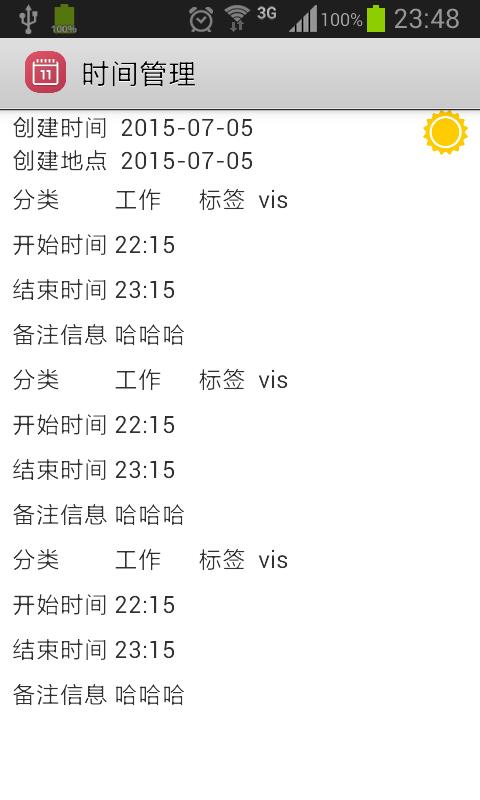
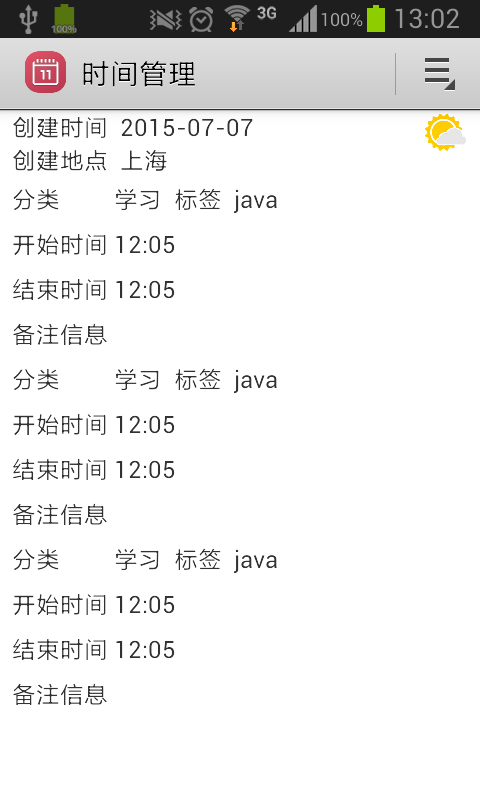
change editdiary

diff --git a/Main/src/com/jing/du/Main/Activity/DiaryDetailActivity.java b/Main/src/com/jing/du/Main/Activity/DiaryDetailActivity.java
@@ -7,10 +7,7 @@ import android.content.Intent;
 import android.os.Bundle;
 import android.os.Handler;
 import android.os.Message;
-import android.view.LayoutInflater;
-import android.view.Menu;
-import android.view.MenuItem;
-import android.view.View;
+import android.view.*;
 import android.widget.ImageView;
 import android.widget.ListView;
 import android.widget.TextView;
@@ -37,9 +34,9 @@ public class DiaryDetailActivity extends BaseActivity {
     ListView lvDiaryItem;
     private int diaryId;
     private Diary diary;
-    private int   listPosition;
+    private int listPosition;
     private List<DiaryItem> diaryItemList = new ArrayList<DiaryItem>();
-
+    private AddDiaryItemAdapter addDiaryItemAdapter;
     private Handler mHandler = new Handler() {
         @Override
         public void handleMessage(Message msg) {
@@ -51,6 +48,7 @@ public class DiaryDetailActivity extends BaseActivity {
 
         }
     };
+    private boolean diaryChanged = false;
 
     @Override
     protected void onCreate(Bundle savedInstanceState) {
@@ -60,7 +58,7 @@ public class DiaryDetailActivity extends BaseActivity {
         Intent intent = getIntent();
         Bundle bundle = intent.getExtras();
         diaryId = bundle.getInt("diary_id", 0);
-        listPosition = bundle.getInt("list_position",0);
+        listPosition = bundle.getInt("list_position", 0);
         afterView();
     }
 
@@ -75,12 +73,19 @@ public class DiaryDetailActivity extends BaseActivity {
         LayoutInflater inflater = getLayoutInflater();
         View headView = inflater.inflate(R.layout.layout_diary_detail_header, null);
         ((TextView) headView.findViewById(R.id.tv_create_time)).setText(DateUtils.getStringOfDate(diary.getCreateTime()));
-        ((TextView) headView.findViewById(R.id.tv_create_address)).setText(DateUtils.getStringOfDate(diary.getCreateTime()));
+        ((TextView) headView.findViewById(R.id.tv_create_address)).setText(diary.getAddress());
         ((ImageView) headView.findViewById(R.id.iv_create_weather)).setImageResource(CommonConstant.WEATHER_RESOUCE[diary.getWeatherType()]);
         lvDiaryItem.addHeaderView(headView);
         AddDiaryItemViewHolder addDiaryItemViewHolder = new AddDiaryItemViewHolder();
-        AddDiaryItemAdapter addDiaryItemAdapter = new AddDiaryItemAdapter(this, diaryItemList, addDiaryItemViewHolder, R.layout.detail_diary_item);
+        addDiaryItemAdapter = new AddDiaryItemAdapter(this, diaryItemList, addDiaryItemViewHolder, R.layout.detail_diary_item);
         lvDiaryItem.setAdapter(addDiaryItemAdapter);
+    }
+
+    private void refeshView() {
+        ((TextView) findViewById(R.id.tv_create_time)).setText(DateUtils.getStringOfDate(diary.getCreateTime()));
+        ((TextView) findViewById(R.id.tv_create_address)).setText(diary.getAddress());
+        ((ImageView) findViewById(R.id.iv_create_weather)).setImageResource(CommonConstant.WEATHER_RESOUCE[diary.getWeatherType()]);
+        addDiaryItemAdapter.notifyDataSetChanged();
     }
 
     @Override
@@ -114,10 +119,10 @@ public class DiaryDetailActivity extends BaseActivity {
             case R.id.action_edit:
                 Intent intent = new Intent();
                 Bundle bundle = new Bundle();
-                bundle.putInt("diary_id", diaryId);
+                bundle.putSerializable("diary", diary);
                 intent.putExtras(bundle);
                 intent.setClass(this, EditDiaryActivity.class);
-                startActivity(intent);
+                startActivityForResult(intent, CommonConstant.GOTO_EDIT_DIARY);
                 overridePendingTransition(R.anim.slide_in_right, R.anim.slide_out_left);
                 break;
             case R.id.action_delete:
@@ -131,15 +136,15 @@ public class DiaryDetailActivity extends BaseActivity {
 
     protected void dialog() {
         AlertDialog.Builder builder = new AlertDialog.Builder(this);
-        builder.setMessage("确认删除日志吗？");
+        builder.setMessage("确认删除日记吗？");
         builder.setTitle("提示");
         builder.setPositiveButton("确认", new DialogInterface.OnClickListener() {
             @Override
             public void onClick(DialogInterface dialog, int which) {
                 dialog.dismiss();
                 DataSupport.delete(Diary.class, diaryId);
-                Intent intent = DiaryDetailActivity.this.getIntent().putExtra("listPosition", listPosition);
-                DiaryDetailActivity.this.setResult(CommonConstant.GOTO_HOME_FLAGMENT,intent);
+                Intent intent = DiaryDetailActivity.this.getIntent();
+                DiaryDetailActivity.this.setResult(CommonConstant.GOTO_HOME_FLAGMENT, intent);
                 DiaryDetailActivity.this.finish();
             }
         });
@@ -150,5 +155,35 @@ public class DiaryDetailActivity extends BaseActivity {
             }
         });
         builder.create().show();
+    }
+
+    @Override
+    public void onActivityResult(int requestCode, int resultCode, Intent data) {
+        super.onActivityResult(requestCode, resultCode, data);
+        switch (requestCode) {
+            case CommonConstant.GOTO_EDIT_DIARY:
+                if (resultCode == CommonConstant.GOTO_DIARY_DETAIL) {
+                    Diary tempDairy = (Diary) data.getSerializableExtra("diary");
+                    diary = tempDairy;
+                    refeshView();
+                    diaryChanged = true;
+                }
+                break;
+            default:
+                break;
+        }
+    }
+
+    @Override
+    public boolean onKeyDown(int keyCode, KeyEvent event) {
+        if (diaryChanged) {
+            Intent intent = DiaryDetailActivity.this.getIntent().putExtra("diary", diary);
+            DiaryDetailActivity.this.setResult(CommonConstant.GOTO_HOME_FLAGMENT_FROM_EDIT_DIARY, intent);
+            DiaryDetailActivity.this.finish();
+        } else {
+            finish();
+            overridePendingTransition(android.R.anim.slide_in_left, android.R.anim.slide_out_right);
+        }
+        return super.onKeyDown(keyCode, event);
     }
 }

diff --git a/Main/src/com/jing/du/Main/Activity/EditDiaryActivity.java b/Main/src/com/jing/du/Main/Activity/EditDiaryActivity.java
@@ -1,20 +1,68 @@
 package com.jing.du.Main.Activity;
 
+import android.app.ActionBar;
+import android.content.ContentValues;
+import android.content.Intent;
 import android.os.Bundle;
-import android.view.KeyEvent;
+import android.view.Menu;
+import android.view.MenuItem;
+import android.view.View;
+import android.widget.*;
+import butterknife.ButterKnife;
+import butterknife.InjectView;
+import com.jing.du.Main.Model.Diary;
 import com.jing.du.Main.R;
+import com.jing.du.common.constant.CommonConstant;
+import com.jing.du.common.utils.DateUtils;
+import org.litepal.crud.DataSupport;
 
 /**
  * Created by charle-chen on 15/7/6.
  */
 public class EditDiaryActivity extends BaseActivity {
 
+    private Diary diary;
+    private int selectedSpinner;
+    @InjectView(R.id.tv_create_time)
+    TextView tvCreateTime;
+    @InjectView(R.id.sp_weather)
+    Spinner spWeather;
+    @InjectView(R.id.et_create_address)
+    EditText etCreateAddress;
+    @InjectView(R.id.lv_diary_item)
+    ListView lvDiaryItem;
+
     @Override
     protected void onCreate(Bundle savedInstanceState) {
         super.onCreate(savedInstanceState);
         setContentView(R.layout.layout_diary_edit);
+        ButterKnife.inject(this);
+        Intent intent = this.getIntent();
+        diary = (Diary) intent.getSerializableExtra("diary");
+        initView();
     }
-    
+
+    private void initView() {
+        tvCreateTime.setText(DateUtils.getStringOfDate(diary.getCreateTime()));
+        etCreateAddress.setText(diary.getAddress());
+        ArrayAdapter weatherAdapter = ArrayAdapter.createFromResource(this, R.array.weather, android.R.layout.simple_spinner_item);
+        spWeather.setAdapter(weatherAdapter);
+        weatherAdapter.setDropDownViewResource(android.R.layout.simple_spinner_dropdown_item);
+        spWeather.setSelection(diary.getWeatherType(), true);
+        spWeather.setOnItemSelectedListener(new SpinnerSelectedListener());
+        ActionBar actionBar = getActionBar();
+        actionBar.show();
+    }
+
+    //使用数组形式操作
+    class SpinnerSelectedListener implements AdapterView.OnItemSelectedListener {
+        public void onItemSelected(AdapterView<?> arg0, View arg1, int arg2, long arg3) {
+            selectedSpinner = arg2;
+        }
+        public void onNothingSelected(AdapterView<?> arg0) {
+        }
+    }
+
     @Override
     public void initData() {
         super.initData();
@@ -23,5 +71,31 @@ public class EditDiaryActivity extends BaseActivity {
     @Override
     public void initEvent() {
         super.initEvent();
+    }
+
+    @Override
+    public boolean onCreateOptionsMenu(Menu menu) {
+        getMenuInflater().inflate(R.menu.edit_diary, menu);
+        return true;
+    }
+
+    @Override
+    public boolean onOptionsItemSelected(MenuItem item) {
+        switch (item.getItemId()) {
+            case R.id.action_save:
+                ContentValues values = new ContentValues();
+                values.put("weatherType",selectedSpinner);
+                values.put("address",etCreateAddress.getText().toString());
+                DataSupport.update(Diary.class, values, diary.getId());
+                diary.setWeatherType(selectedSpinner);
+                diary.setAddress(etCreateAddress.getText().toString());
+                Intent intent = EditDiaryActivity.this.getIntent().putExtra("diary", diary);
+                EditDiaryActivity.this.setResult(CommonConstant.GOTO_DIARY_DETAIL, intent);
+                EditDiaryActivity.this.finish();
+                break;
+            default:
+                break;
+        }
+        return super.onOptionsItemSelected(item);
     }
 }

diff --git a/Main/src/com/jing/du/Main/FragmentView/HomeFragment.java b/Main/src/com/jing/du/Main/FragmentView/HomeFragment.java
@@ -159,15 +159,21 @@ public class HomeFragment extends Fragment implements CommonInit {
         switch (requestCode) {
             case CommonConstant.GOTO_DIARY_DETAIL:
                 if (resultCode == CommonConstant.GOTO_HOME_FLAGMENT) {
-                    int listPosition = data.getIntExtra("listPosition", 0);
+                    int listPosition = data.getIntExtra("list_position", 0);
                     diaryList.remove(listPosition);
+                    diaryAdapter.notifyDataSetChanged();
+                }
+                if (resultCode == CommonConstant.GOTO_HOME_FLAGMENT_FROM_EDIT_DIARY) {
+                    int listPosition = data.getIntExtra("list_position", 0);
+                    Diary diary = (Diary)data.getSerializableExtra("diary");
+                    diaryList.set(listPosition,diary);
                     diaryAdapter.notifyDataSetChanged();
                 }
                 break;
             case CommonConstant.GOTO_CREATE_DIARY:
                 if (resultCode == CommonConstant.GOTO_HOME_FLAGMENT) {
-                    Diary tempDiary = (Diary)data.getSerializableExtra("diary");
-                    diaryList.add(tempDiary);
+                    Diary tempDiary = (Diary) data.getSerializableExtra("diary");
+                    diaryList.add(0,tempDiary);
                     diaryAdapter.notifyDataSetChanged();
                 }
                 break;

diff --git a/Main/src/com/jing/du/Main/Activity/CreateDiaryActivity.java b/Main/src/com/jing/du/Main/Activity/CreateDiaryActivity.java
@@ -7,6 +7,7 @@ import android.content.Intent;
 import android.os.Bundle;
 import android.os.Handler;
 import android.os.Message;
+import android.view.KeyEvent;
 import android.view.Menu;
 import android.view.MenuItem;
 import android.view.View;
@@ -147,7 +148,6 @@ public class CreateDiaryActivity extends BaseActivity {
                 Calendar calendar = Calendar.getInstance();
                 TimePickerDialog.OnTimeSetListener timeListener =
                         new TimePickerDialog.OnTimeSetListener() {
-
                             @Override
                             public void onTimeSet(TimePicker timerPicker,
                                                   int hourOfDay, int minute) {
@@ -239,7 +239,7 @@ public class CreateDiaryActivity extends BaseActivity {
                 lvAddDiaryItem.setVisibility(View.VISIBLE);
                 break;
             case R.id.action_save:
-                Intent intent = CreateDiaryActivity.this.getIntent().putExtra("diary",diary);
+                Intent intent = CreateDiaryActivity.this.getIntent().putExtra("diary", diary);
                 CreateDiaryActivity.this.setResult(CommonConstant.GOTO_HOME_FLAGMENT, intent);
                 CreateDiaryActivity.this.finish();
                 break;

diff --git a/Main/src/com/jing/du/common/constant/CommonConstant.java b/Main/src/com/jing/du/common/constant/CommonConstant.java
@@ -15,8 +15,8 @@ public class CommonConstant {
     public static final int RAINNY = 4;
 
     public static final int RESOUCE_SUNNY = R.drawable.sunny;
-    public static final int RESOUCE_CLOUDY = R.drawable.cloudy;
-    public static final int RESOUCE_OVERCAST = R.drawable.overcast;
+    public static final int RESOUCE_CLOUDY = R.drawable.overcast;
+    public static final int RESOUCE_OVERCAST = R.drawable.cloudy;
     public static final int RESOUCE_RAINNY = R.drawable.rainy;
 
     public static final int[] WEATHER_RESOUCE = {RESOUCE_SUNNY,RESOUCE_CLOUDY,RESOUCE_OVERCAST,RESOUCE_RAINNY};
@@ -24,4 +24,6 @@ public class CommonConstant {
     public static final int GOTO_DIARY_DETAIL = 1;
     public static final int GOTO_HOME_FLAGMENT = 2;
     public static final int GOTO_CREATE_DIARY = 3;
+    public static final int GOTO_EDIT_DIARY = 4;
+    public static final int GOTO_HOME_FLAGMENT_FROM_EDIT_DIARY = 5;
 }

diff --git a/README.md b/README.md
@@ -25,6 +25,12 @@
 
 ![](images/detail.png)
 
+- 编辑日记页
+    + 利用actionbar--menu菜单
+    + 注意activity之间的通信
+
+![](images/edit.png)
+
 - 标签管理页
     + 系统默认的一些标签
     + 自己可以增加一些标签
